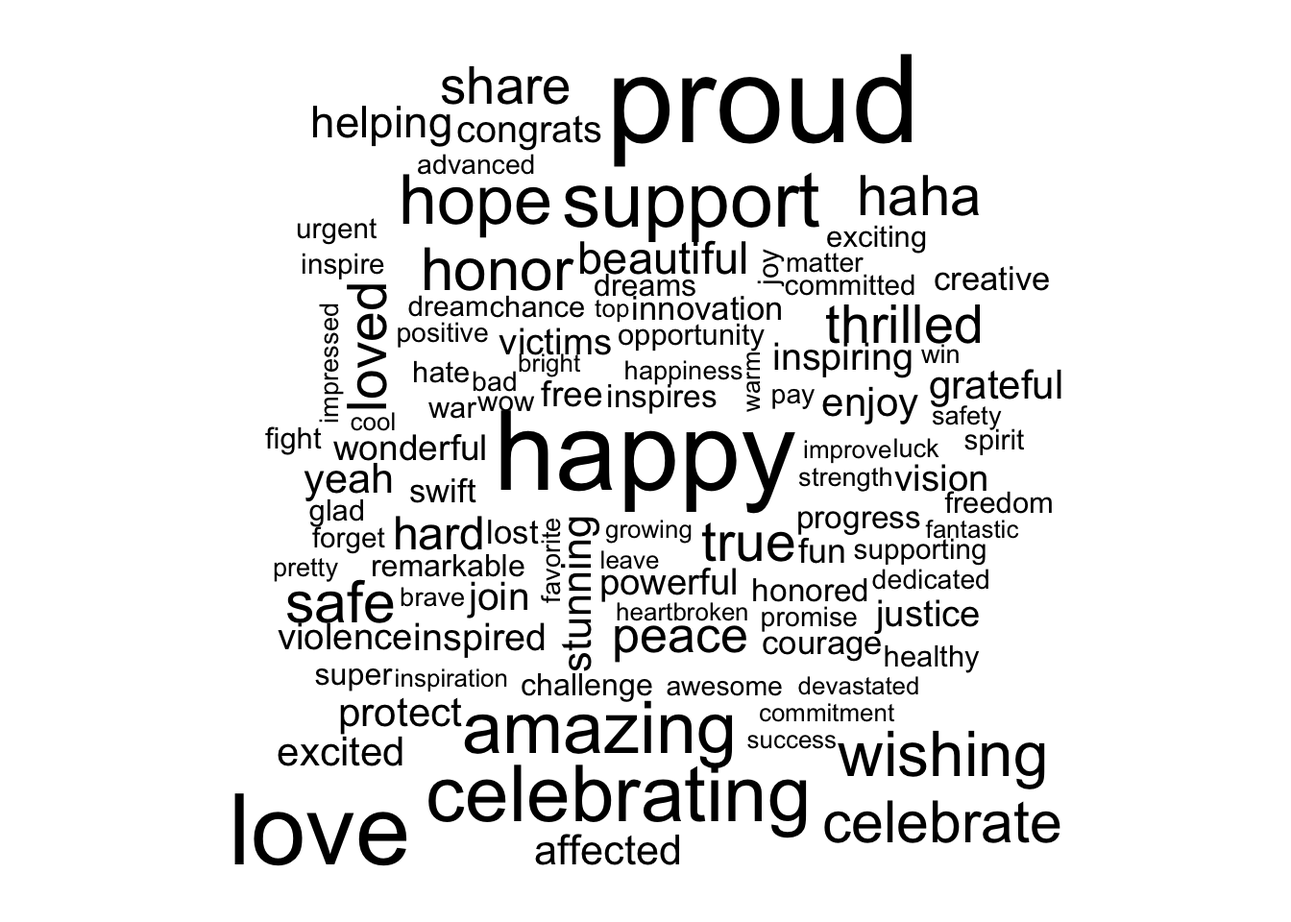
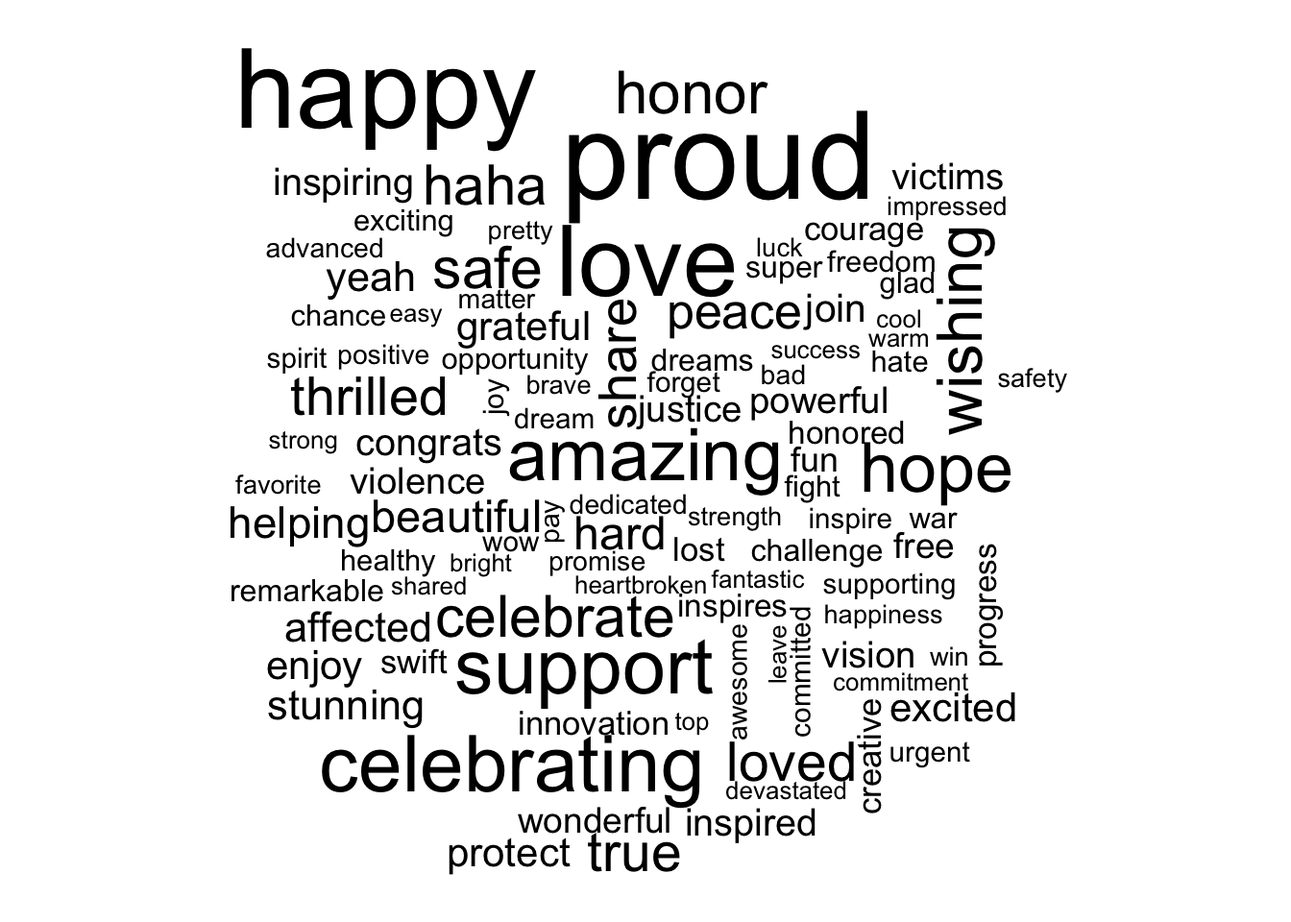
updating assignment

Changed region(s): [[0.1562, 0.0625, 0.8438, 0.9688]]

diff --git a/project.html b/project.html
@@ -275,7 +275,7 @@ $(document).ready(function () {
 <h2>
 Introduction
 </h2>
-<p>For this assignment, we are interested in the comparing tweets from <strong>Elon Musk</strong> and <strong>Tim Cook</strong>. Our main research question is: <em>How do tweets from Elon Musk and Tim Cook differ?</em>. Before starting the research process, we hypothesized that there will be a large difference in the sentiment of tweets; that is, we postulate that tweets from Elon Musk will incorporate more extreme sentiments that those from Tim Cook. Throughout this report, we will check if that hypothesis is valid or not. Additionally, we expect that Elon may have more tweets with pictures while also tweeting at more sproradic and unconventional times of the day in comparison to Tim.</p>
+<p>For this assignment, we are interested in the comparing tweets from <strong>Elon Musk</strong> and <strong>Tim Cook</strong>. Our main research question is the following: <em>How do tweets from Elon Musk and Tim Cook differ?</em>. Before starting the research process, we hypothesize that there would be a large difference in the sentiment of tweets; that is, we postulate that tweets from Elon will contain more extreme sentiments than those from Tim. Additionally, we expect that Elon may have more tweets with pictures while also tweeting at more sproradic and unconventional times of the day in comparison to Tim.</p>
 <p>In sum, we have three hypotheses:</p>
 <ol style="list-style-type: decimal">
 <li>Elon will have more extreme sentiment in his tweets, compared to Tim</li>
@@ -289,17 +289,17 @@ Methodology
 <ul>
 <li>Comparing time patterns between the tweets of both accounts. The purpose for this was to gather information about the times of the day during which both accounts tweet the most or the least.<br />
 </li>
-<li>Comparing the number of tweets with or without pictures/links from both accounts. The purpose for this was to understand which account tends to use pictures/link more often.</li>
+<li>Comparing the number of tweets with or without pictures/links from both users The purpose for this was to understand which user tends to include pictures/links in their tweets more often.</li>
 <li>Tokenizing the tweets in each account. The purpose for this was to identify differences between popular words tweeted between both accounts and to conduct a sentiment analysis on each sample of tweets.</li>
 </ul>
-<p>For our predictive algortihm, we divided our data into test and train data and trained the algorithm to identify the srouces of the tweet based on the following variables:</p>
+<p>For our predictive algorithm, we divided our data into test and train data and applied a decision tree to identify the srouces of the tweet based on the following variables:</p>
 <ul>
 <li>Whether the tweet contained pictures/links</li>
 <li>The hour of the day during which the tweet was published</li>
 <li>The sentiment score using the AFINN dictionary</li>
 </ul>
-<div id="first-we-are-loading-in-the-tweets-from-elon-musk-and-tim-cook-our-two-tweeters-of-interest." class="section level3">
-<h3>First, we are loading in the tweets from Elon Musk and Tim Cook, our two tweeters of interest.</h3>
+<div id="first-we-are-loading-in-the-tweets-from-elon-musk-and-tim-cook-our-two-twitter-users-of-interest." class="section level3">
+<h3>First, we are loading in the tweets from Elon Musk and Tim Cook, our two Twitter users of interest.</h3>
 <pre class="r"><code>#load data
 setwd(&#39;~/Dropbox/516_Eels/HW_9&#39;)
 
@@ -331,13 +331,14 @@ cook = read_csv(&#39;tim_cook_tweets.csv&#39;)</code></pre>
 
 combined &lt;- rbind(elon, cook) #combine data frames
 
-nrc &lt;- read_rds(&quot;nrc.rds&quot;) #rds is native format for r data </code></pre>
+nrc &lt;- read_rds(&quot;nrc.rds&quot;)</code></pre>
 </div>
 <div id="now-we-want-to-understand-the-differences-in-the-times-of-tweets-between-users." class="section level3">
 <h3>Now, we want to understand the differences in the times of tweets between users.</h3>
-<p>Tim Cook appears to tweet more often in the morning (between 7:00am - 10:00am), whereas Elon is much more likely to tweet in the very early morning/late night (12:00am - 5:00am). Tim’s tweet reach a significant peak toward 9:00am, which is a sign that there are potentially scheduled tweets that go out during that time of the day.</p>
-<p>The steady rise and peak at 9:00am seen in Tim Cook’s tweets can suggest he may use an automated service, like tweetdeck, to tweet. Also, since many of his tweets are complete thoughts and sentences, rather than quick, single line comments, we can imply he plans out his tweets/communications ahead of time.</p>
-<p>As for Elon, his tweets tend to be less-structured with less predictable timing. His second-highest peak, roughly at 6:00pm, can be fully realized by a tweet sent at 6:09pm on 4/10, stating, <strong>“Blimps rock.”</strong> A picture of a Goodyear blimp was included in the tweet.</p>
+<p>Tim Cook appears to tweet more often in the morning (between 7:00am - 10:00am EST), whereas Elon is much more likely to tweet in the very early morning/late night (12:00am - 5:00am EST). Tim’s tweets reach a significant peak toward 9:00am EST, which is a sign that there are potentially scheduled tweets that go out during that time of the day.</p>
+<p>The steady rise and peak at 9:00am observed in Tim Cook’s tweets suggest he may use an automated service, like TweetDeck, to tweet. Also, since many of his tweets are complete thoughts and sentences, rather than quick, single line comments, we can infer that he may plan his tweets/communications ahead of time.</p>
+<p>As for Elon, his tweets tend to be less-structured with less predictable timing. His second-highest peak, roughly at 6:00pm EST, can be fully realized by a tweet sent at 6:09pm EST on 4/10, stating, <strong>“Blimps rock.”</strong> A picture of a Goodyear blimp was included in the tweet.</p>
+<p><em>Please note that later in this report, in the algorithm sections, we report times using PST instead of EST.</em></p>
 <pre class="r"><code>#time of day of tweets 
 combined %&gt;%
   count(user, hour = hour(with_tz(created_at, &quot;EST&quot;))) %&gt;%
@@ -354,14 +355,14 @@ combined %&gt;%
 <div id="next-we-were-interested-in-the-differences-between-users-tweets-when-it-comes-to-tweets-that-contain-pictureslinks." class="section level3">
 <h3>Next, we were interested in the differences between users’ tweets when it comes to tweets that contain pictures/links.</h3>
 <p>We find that Tim Cook is much more likely to include a picture or a hyperlink in his tweets. Out of the total tweets in our dataset, the number of tweets with <code>Picture/link</code> for Elon is 159 while Tim has 768 tweets with either a picture or link.</p>
-<p>Put otherwise, Tim Cook has a picture/link tweet rate of 68%, whereas Elon has a rate of 14%. For every one picture or link Elon tweets, Tim will tweet 5.</p>
-<pre class="r"><code>#Count the number of tweets with and without picture/links by device
+<p>Put otherwise, Tim Cook has a picture/link tweet rate of 68%, whereas Elon has a rate of 14%. For every one picture or link Elon tweets, Tim will tweet five.</p>
+<pre class="r"><code>#count the number of tweets with and without picture/links by user
 pic_ct &lt;- combined %&gt;%
   filter(!str_detect(text, &#39;^&quot;&#39;)) %&gt;%
   count(user,picture = ifelse(str_detect(text, &quot;t.co&quot;),
                          &quot;Picture/link&quot;, &quot;No picture/link&quot;))
 
-#Make a bar plot 
+#bar plot 
 ggplot(pic_ct, aes(x = user, y = n, fill = picture)) +
   geom_bar(stat = &quot;identity&quot;, position = &quot;dodge&quot;) +
   labs(title = &quot;Tweets with(out) picture/link&quot;, x = &quot;&quot;, y = &quot;Number of tweets&quot;, fill = &quot;&quot;) +
@@ -371,10 +372,10 @@ ggplot(pic_ct, aes(x = user, y = n, fill = picture)) +
 <div id="this-section-analyzes-the-frequency-of-individual-words." class="section level3">
 <h3>This section analyzes the frequency of individual words.</h3>
 <p>The first thing we did was create a regex pattern that removed any unwanted symbols/characters.</p>
-<pre class="r"><code># Create a regex pattern
+<pre class="r"><code>#create a regex pattern
 reg &lt;- &quot;([^A-Za-z\\d#@&#39;]|&#39;(?![A-Za-z\\d#@]))&quot;
 
-# Tokenize
+#tokenize
 tweet_txt &lt;- combined %&gt;%
   filter(!str_detect(text, &#39;^&quot;&#39;)) %&gt;%
   mutate(text = str_replace_all(text, &quot;@https://t.co/[A-Za-z\\d]+|&amp;amp;&quot;, &quot;&quot;)) %&gt;%
@@ -383,9 +384,8 @@ tweet_txt &lt;- combined %&gt;%
          str_detect(word, &quot;[a-z]&quot;))
 
 tweet_txt &lt;- tweet_txt[!grepl(&quot;@&quot;, tweet_txt$word),]  
-#the `reg` object wasn&#39;t removing the symbols as desired
 tweet_txt &lt;- tweet_txt[!grepl(&quot;https&quot;, tweet_txt$word),] </code></pre>
-<p>Then, using the newly tokenized dataset, we show the words that occur most often in Elon’s tweets and Tim’s tweets. Unsurprisingly, Elon’s most-tweeted word is <code>Tesla</code>, followed by <code>haha</code> and Tim’s most-tweeted word is <code>Apple</code> and <code>world</code>.</p>
+<p>Then, using a newly tokenized dataset, we show the words that occur most often in Elon’s tweets and Tim’s tweets. Unsurprisingly, Elon’s most-tweeted word is <code>Tesla</code>, followed by <code>haha</code> and Tim’s most-tweeted words are <code>Apple</code> and <code>world</code>.</p>
 <pre class="r"><code>tweet_txt %&gt;%
   group_by(user) %&gt;% 
   count(word, sort = TRUE) %&gt;%
@@ -399,7 +399,7 @@ tweet_txt &lt;- tweet_txt[!grepl(&quot;https&quot;, tweet_txt$word),] </code></p
 </div>
 <div id="now-we-begin-our-sentiment-analysis." class="section level3">
 <h3>Now, we begin our sentiment analysis.</h3>
-<p>We join the NRC dictionary to our data frame that contains the texts of the tweets, into a new data frame called <code>tweet_sentiment</code>. Then we assess each word and calculate a logarithmic ratio comparing the users to determine the difference. We take this log ratio, and plot it: for the words with the largest difference when it comes to being tweeted by either Elon or Tim, the top 15 are all words that are coming from Elon.</p>
+<p>We join the NRC dictionary to our data frame that contains the texts of the tweets, into a new data frame called <code>tweet_sentiment</code>. Then we assess each word and calculate a logarithmic ratio comparing the users to determine the difference. We take this log ratio, and plot it: for the words with the largest difference when it comes to being tweeted by either Elon or Tim, the top 15 are all words that come from Elon’s tweets.</p>
 <pre class="r"><code>#RATIO TIME
 
 #join nrc first
@@ -426,14 +426,14 @@ tweet_ratio %&gt;%
   coord_flip() +
   ylab(&quot;Elon / Tim ratio&quot;) +
   scale_fill_manual(name = &quot;&quot;, labels = c(&quot;Elon&quot;, &quot;Tim&quot;),
-                    values = c(&quot;red&quot;, &quot;lightblue&quot;)) #note it only has elon because the top 15 logratios are all ELon</code></pre>
+                    values = c(&quot;red&quot;, &quot;lightblue&quot;)) </code></pre>
 <p><img src="project_files/figure-html/unnamed-chunk-6-1.png" width="672" /></p>
 <div id="second-we-begin-assessing-words-by-either-positive-or-negative-sentiment." class="section level4">
 <h4>Second, we begin assessing words by either <code>positive</code> or <code>negative</code> sentiment.</h4>
-<p>In general, it appears that Elon’s tweets have a stronger sentiment (i.e., more angry, more sad, more joyful) than Tim’s tweets. We draw this conclusion by examining the size of the red bars (Elon) in comparison to the light blue bars (Tim) for each general sentiment.</p>
-<p>As seen throughout the previous questions, we can assume Tim uses twitter as a more professional means of communication, while Elon uses twitter as a <strong>normal</strong>, non-professional user would, to tweet about blimps and claim he is the “techno-king” of his own company, Tesla. We see more instances of this dichotomy between Tim and Elon when we apply sentiment analysis to their tweets. Elon, as a whole, uses stronger sentiments (positive and negative).</p>
-<p>What stands out the most here is Elon’s use of <code>bad</code>. It is his most used word among the disgust, fear, and sad sentiments, and the second most extreme word of anger. However, it is important to note that the most angered word of his is <code>rocket</code>, which could be used as proof against the efficacy of sentiment analysis in this case.</p>
-<p>Tim’s use of <code>proud</code> also stands out. It is his most used word among the anticipation, trust, and joy sentiments. By comparing the sentiments under which these most common tweeted words fall, we can see that Elon’s tweets are associated with more extreme sentiments as opposed to Tim’s, which are associated with more neutral sentiments.</p>
+<p>In general, it appears that Elon’s tweets have a stronger sentiment (i.e., more angry, more sad, more joyful) than Tim’s tweets. We draw this conclusion by examining the size of the red bars (Elon) in comparison to the light blue bars (Tim) for each general sentiment category.</p>
+<p>As seen throughout the previous questions, we can assume Tim uses Twitter as a more professional means of communication, while Elon uses Twitter as a <em>normal</em>, non-professional user would, to tweet about blimps and claim he is the “techno-king” of his own company, Tesla. We see more instances of this dichotomy between Tim and Elon when we apply sentiment analysis to their tweets. Elon, as a whole, uses stronger sentiments (positive and negative).</p>
+<p>What stands out the most here is Elon’s use of <code>bad</code>. It is his most used word among the disgust, fear, and sad sentiment categories, and the second most extreme word of the anger sentiment category. However, it is important to note that the most angered word of his is <code>rocket</code>, which could be used as proof <em>against</em> the efficacy of sentiment analysis in this case.</p>
+<p>Tim’s use of <code>proud</code> also stands out. It is his most used word among the anticipation, trust, and joy sentiment categories. By comparing the sentiments under which these most commonly-tweeted words fall, we can see that Elon’s tweets are associated with more extreme sentiments as opposed to Tim’s, which are associated with more neutral sentiments.</p>
 <pre class="r"><code>#INDIVIDUAL SENTIMENT TIME
 tweet_sentiment &lt;- tweet_ratio %&gt;%
   inner_join(nrc, by = &quot;word&quot;) %&gt;%
@@ -444,7 +444,7 @@ tweet_sentiment &lt;- tweet_ratio %&gt;%
   top_n(15, abs(logratio)) %&gt;%
   ungroup() 
 
-# Plot the log odds ratio of words by user in groups of sentiments
+#plot the log odds ratio of words by user in groups of sentiments
 ggplot(tweet_sentiment, aes(x = word, y = logratio, fill = logratio &lt; 0)) +
   facet_wrap(~ sentiment, scales = &quot;free&quot;, nrow = 2) +
   geom_bar(stat = &quot;identity&quot;) +
@@ -467,7 +467,7 @@ predictingtree &lt;- combined %&gt;%
   mutate(pic_binary = case_when(picture == &quot;No picture/link&quot; ~ 0,
                                 picture == &quot;Picture/link&quot; ~ 1))
 
-levels(predictingtree$pic_binary) &lt;- c(&quot;0&quot;,&quot;1&quot;) #standardize levels
+levels(predictingtree$pic_binary) &lt;- c(&quot;0&quot;,&quot;1&quot;) 
 
 #adding a variable for time of day
 predictingtree &lt;- predictingtree %&gt;% 
@@ -495,7 +495,8 @@ predictingtree &lt;- predictingtree %&gt;%
 ## 10 1.38e18 Twitt… 2021-04-10 08:23:03           3302           262 Elon  No pic…
 ## # … with 3,825 more rows, and 4 more variables: pic_binary &lt;dbl&gt;, hour &lt;int&gt;,
 ## #   word &lt;chr&gt;, value &lt;dbl&gt;</code></pre>
-<pre class="r"><code>predictingtree %&gt;%
+<pre class="r"><code>#amazing wordcloud
+predictingtree %&gt;%
   anti_join(stop_words) %&gt;%
   count(word) %&gt;%
   with(wordcloud(word, n, max.words = 100))</code></pre>
@@ -505,9 +506,9 @@ predictingtree &lt;- predictingtree %&gt;%
 <p><img src="project_files/figure-html/unnamed-chunk-8-1.png" width="672" /></p>
 <div id="we-split-our-data-into-train-data-tree_train-and-test-data-for-later-use-tree_test.-then-we-generate-a-decision-tree-first-using-tree_train." class="section level4">
 <h4>We split our data into train data, <code>tree_train</code>, and test data for later use, <code>tree_test</code>. Then, we generate a decision tree, first using <code>tree_train</code>.</h4>
-<p>As aforementioned, we are using an algorithm to classify who the tweeter is (Elon vs. Tim) as a function of a) whether the tweet has a picture/link, b) the time of the tweet, and c) the sentiment score per the AFINN dictionary.</p>
-<p>As can be seen from the decision tree, tweets that are tweeted at 11pm, fall within the negative sentiment scale, and have a picture/link have an 80% chance of being tweet by Tim. Tweets that are tweeted before 11pm, have a negative sentiment and have no picture/link have a 42% chance of being tweeted by Elon. Additionally, more positive tweets with no picture/link have a 94% chance of being tweeted by Tim Cook.</p>
-<pre class="r"><code>#making train and test data
+<p>As aforementioned, we are using a decision tree to classify who the tweeter is (Elon vs. Tim) as a function of a) whether the tweet has a picture/link, b) the time of the tweet, and c) the sentiment score per the AFINN dictionary.</p>
+<p>As can be seen from the decision tree, we very clearly observe that of 50% of the tweets that have a picture/link, that there is a 96% chance of them coming from Tim. We will continue to analyze the higher levels of the tree. We also see that for 18% of the tweets that do not contain a picture/link, but occur after 6:00am PST and before noon PST, there is a 39% chance that they come from Elon. Moreover, for 32% of the tweets that do not contain a picture/link and come at or after 6:00pm PST, that there is a 62% they are from Tim. If we continue following this branch, we also note that if the sentiment is greater than -2 per the AFINN dictionary, that there is a 33% likelihood that 13% of the tweets come from Elon.</p>
+<pre class="r"><code>#split train and test data
 set.seed(321)
 split = sort(sample(nrow(predictingtree), nrow(predictingtree)*.8))
 tree_train &lt;- predictingtree[split,]
@@ -523,7 +524,7 @@ rpart.plot(tweet_tree, yesno = 2, type = 1)</code></pre>
 </div>
 <div id="to-understand-the-algorithms-effectiveness-on-new-tweets-from-elon-and-tim-we-use-a-confusion-matrix-on-the-test-data." class="section level4">
 <h4>To understand the algorithm’s effectiveness on <em>new</em> tweets from Elon and Tim, we use a confusion matrix on the test data.</h4>
-<p>As can be seen from our confusion matrix, the algorithm has an overall accuracy of 82% with the current variables included. It shows higher predictability for Elon’s tweets versus those of Tim. But, overall, the algorithm is very well predictive of tweets from both accounts.</p>
+<p>As can be seen from our confusion matrix, the algorithm has an overall accuracy of 83% with the current variables included. It shows higher predictability for Elon’s tweets versus those of Tim. But, overall, the algorithm is very well predictive of tweets from both accounts.</p>
 <pre class="r"><code>#predict using test data
 tweet_predict &lt;- predict(tweet_tree, tree_test, type = &quot;class&quot;)
 
@@ -561,8 +562,9 @@ confusionMatrix(as.factor(tree_test$user), as.factor(tweet_predict))</code></pre
 </div>
 <div id="lastly-we-applied-our-algorithm-to-two-completely-unrelated-users-joe-rogan-and-jojo-siwa." class="section level2">
 <h2>Lastly, we applied our algorithm to two completely unrelated users: Joe Rogan and Jojo Siwa.</h2>
-<p>We created the same new variables that assessed the presence/absence of link/pictures, the time of the tweet, and the sentiment per AFINN dictionary. We implement the same algorithm (i.e., decision tree) to Joe and Jojo’s tweets. In comparison to the word cloud cloud created for the Tim/Elon dataset, the Jo/Jojo wordcloud contains considerably more profanity. Additionally, there are a couple of words such as <code>love</code> and <code>powerful</code> that stand out as being utilized more than others.</p>
-<p>We observe that while the algorithm still somewhat accurately categorizes tweets for either Jojo or Joe, we do note that the accuracy of the decision tree decreases by about 7% compared to the original algorithm built using Elon and Tim’s tweets. According to the decision tree, only the variables pictures/link and tweet sentiment are predictive in this model. Tweets that have very negative sentiment (&lt;-3 on the scale) and have no pictures/links have 0% chance of being tweeted by Joe. Tweets that have a sentiment larger than -3 and have no pictures/links have 86% chance of being tweeted by Jojo.</p>
+<p>We created the same new variables that assessed the presence/absence of link/pictures, the time of the tweet, and the sentiment per AFINN dictionary. We implement the same algorithm (i.e., decision tree) to Joe and Jojo’s tweets. In comparison to the wordcloud created for the Tim/Elon dataset, the Joe/Jojo wordcloud contains <em>considerably more profanity</em>. Additionally, there are a couple of words such as <code>love</code> and <code>powerful</code> that stand out as being utilized more than others.</p>
+<p>We observe that while the algorithm still somewhat accurately categorizes tweets for either Jojo or Joe and does not break, we do note that the accuracy of the decision tree decreases by about 7% compared to the original algorithm built using Elon and Tim’s tweets. According to the decision tree, only the variables of a) pictures/link and b) tweet sentiment are predictive in this model; the time of the tweet is not a significant predictor of user, since it is not shown in the tree.</p>
+<p>85% of tweets that have very negative sentiment (less than -3 per the AFINN scale) and have no pictures/links have a 14% chance of being tweeted by Joe. 14% of tweets that have a sentiment larger than -3 and have no pictures/links have a 86% chance of being tweeted by Jojo.</p>
 <pre class="r"><code>setwd(&#39;~/Dropbox/516_Eels/HW_9&#39;)
 
 rogan = read_csv(&#39;joerogan_tweets.csv&#39;)</code></pre>
@@ -603,7 +605,7 @@ other_tree &lt;- combined_unrelated %&gt;%
                                 picture == &quot;Picture/link&quot; ~ 1))
 
 
-levels(other_tree$pic_binary) &lt;- c(&quot;0&quot;,&quot;1&quot;) #standardize levels
+levels(other_tree$pic_binary) &lt;- c(&quot;0&quot;,&quot;1&quot;) 
 
 
 #adding a variable for time of day
@@ -632,13 +634,14 @@ other_tree &lt;- other_tree %&gt;%
 ## 10 1.37e18 Insta… 2021-03-16 22:49:07            911            54 Joe   Pictur…
 ## # … with 4,266 more rows, and 4 more variables: pic_binary &lt;dbl&gt;, hour &lt;int&gt;,
 ## #   word &lt;chr&gt;, value &lt;dbl&gt;</code></pre>
-<pre class="r"><code>other_tree %&gt;%
+<pre class="r"><code>#incredible wordcloud
+other_tree %&gt;%
   anti_join(stop_words) %&gt;%
   count(word) %&gt;%
-  with(wordcloud(word, n, max.words = 100)) #fun cloud</code></pre>
+  with(wordcloud(word, n, max.words = 100)) </code></pre>
 <pre><code>## Joining, by = &quot;word&quot;</code></pre>
 <p><img src="project_files/figure-html/unnamed-chunk-11-1.png" width="672" /></p>
-<pre class="r"><code>#prep for decision tree - split data first
+<pre class="r"><code>#split other users train and test data 
 set.seed(321)
 split2 = sort(sample(nrow(other_tree), nrow(other_tree)*.8))
 other_train &lt;- other_tree[split,]
@@ -685,25 +688,40 @@ confusionMatrix(as.factor(other_test$user), as.factor(tweet_predict2)) #.76</cod
 <h2>
 Results
 </h2>
-<p>While we have also provided explanations at each code chunk, the general results/takeaways are as follows:</p>
-<p><strong>Presence of pictures/links</strong> - Tim Cook tweets more using pictures/links than Elon Musk.</p>
-<p><strong>Time of tweet</strong> - Tim Cook appears to tweet more often in the morning (between 7:00am - 10:00am), whereas Elon is much more likely to tweet in the very early morning/late night (12:00am - 5:00am). Tim’s tweet reach a significant peak toward 9:00am, which is a sign that there are potentially scheduled tweets that go out during that time of the day.</p>
-<p><strong>Frequency of certain words in tweets</strong> - Elon Musk’s tweets are more informal than those of Tim Cook. Aside from Telsa, the most popular word in Elon’s tweets is <code>haha</code>. The most popular words in Tim’s tweets are <code>Apple</code> and <code>world</code>. - For the words with the largest difference when it comes to being tweeted by either Elon or Tim, the top 15 are all words that are coming from Elon. This makese sense, given that many of these words are directly related to Elon’s businesses (<code>tesla</code> and <code>spacex</code>). We can interpret this as Elon having tweeted these terms exponentially more than Tim.</p>
-<p><strong>Sentiment</strong> - In comparison to Tim, Elon, as a whole, uses stronger sentiments in his tweets (positive and negative). What stands out the most here is Elon’s use of <code>bad</code>, which is his most used word among the disgust, fear, and sad sentiments (the second most extreme word of anger).</p>
+<p>While we have also provided explanations at each code chunk, the general takeaways are as follows:</p>
+<p><strong>Presence of pictures/links</strong></p>
 <ul>
-<li>The algorithm that we developed using time and content of the tweets is able to differential with 82% accuracy tweets from Elon Musk and Tim Cook. However, it lost 7% of its accuracy when applied to the Jojo Siwa and Joe Rogan tweets. In both models, the variable pictures/links kept its position as the most predictive variable. Unlike tweets from Elon Musk and Tim Cook, time of the day was not a significantly predictive variable when applying our algorithm to the Jojo and Joe data. As such, Jojo and Joe’s tweets seem to differ mostly, based on our algrotihm, on sentiment and pictures/links.</li>
+<li>Tim tweets more using pictures/links than Elon.</li>
+</ul>
+<p><strong>Time of tweet</strong></p>
+<ul>
+<li>Tim appears to tweet more often in the morning (between 7:00am - 10:00am EST), whereas Elon is much more likely to tweet in the very early morning/late night (12:00am - 5:00am EST). Tim’s tweet reach a significant peak toward 9:00am EST, which is a sign that there are potentially scheduled tweets that go out during that time of the day.</li>
+</ul>
+<p><strong>Frequency of certain words in tweets</strong></p>
+<ul>
+<li>Elon’s tweets are more informal than those of Tim. Aside from <code>Telsa</code>, the most popular word in Elon’s tweets is <code>haha</code>. The most popular words in Tim’s tweets are <code>Apple</code> and <code>world</code>.<br />
+</li>
+<li>For the words with the largest difference when it comes to being tweeted by either Elon or Tim, the top 15 are all words that are coming from Elon. This makese sense, given that of the few business words that Elon tweets, the top one is directly related to Elon’s primary business (i.e., <code>tesla</code>). We can interpret this as Elon having tweeted these terms exponentially more than Tim.</li>
+</ul>
+<p><strong>Sentiment</strong></p>
+<ul>
+<li>In comparison to Tim, Elon as a whole uses stronger sentiments in his tweets (positive and negative). What stands out the most here is Elon’s use of <code>bad</code>, which is his most used word among the disgust, fear, and sad sentiments (the second most extreme word of anger).<br />
+</li>
+<li>The algorithm that we developed using time, content, and sentiment per the AFINN dictionary of the tweets is able to differential with 83% accuracy tweets from Elon and Tim.</li>
+<li>However, the confusion matrix indicated a difference of 7% of its accuracy when applied to the Jojo Siwa and Joe Rogan tweets. In both models, the variable pictures/links kept its position as the most predictive variable. Unlike tweets from Elon Musk and Tim Cook, time of the day was not a significantly predictive variable when applying our algorithm to the Jojo Siwa and Joe Rogan data. As such, Jojo and Joe’s tweets seem to differ mostly, based on our algrotihm, on sentiment and pictures/links.</li>
 </ul>
 <h2>
-Conclusion and necessary attributions
+Conclusion and Attributions
 </h2>
-<p>Recall that our three directional hypotheses were as follows:</p>
+<p>To close, recall that our three directional hypotheses were as follows:</p>
 <ol style="list-style-type: decimal">
 <li>Elon will have more extreme sentiment in his tweets, compared to Tim</li>
 <li>Tim will have fewer tweets with pictures/links, compared to Elon</li>
 <li>Elon will have more sporadic tweeting patterns, compared to Tim</li>
 </ol>
-<p>Indeed, at a broad level, Elon has more extreme sentiment among his tweets compared to Tim’s neutral tone. Moreover, Elon’s time of tweets follow a pattern that is more bimodal than unimodal, hinting that his tweets are less predictable in comparison to Tim’s clear 9:00am peak of tweets. Thus, both Hypotheses 1 and 3. Surprisingly, we find that Tim tweets with more pictures/links, and so our Hypothesis 2 is rejected.</p>
-<p>Ultimately, <em>#GoEels</em>: This assignment was a collaborative effort between Walid Hedidar, Aamia Malik, Michael Murphy, Jon Sirota, Cory Winkler, and Jennifer Xue. All are graduate students at the University of Pennsylvania.</p>
+<p>Indeed, at a broad level, Elon has more extreme sentiment among his tweets compared to Tim’s neutral tone. Moreover, Elon’s time of tweets follow a pattern that is more bimodal than unimodal, hinting that his tweets are less predictable in comparison to Tim’s clear 9:00am EST peak of tweets. Thus, we fail to reject Hypotheses 1 and 3. Surprisingly, we find that Tim tweets with more pictures/links, and so Hypothesis 2 is rejected.</p>
+<hr />
+<p>Finally, <em>#GoEels</em>: This assignment was a collaborative effort between Walid Hedidar, Aamia Malik, Michael Murphy, Jon Sirota, Cory Winkler, and Jennifer Xue. All are graduate students at the University of Pennsylvania.</p>
 </div>
 
 
